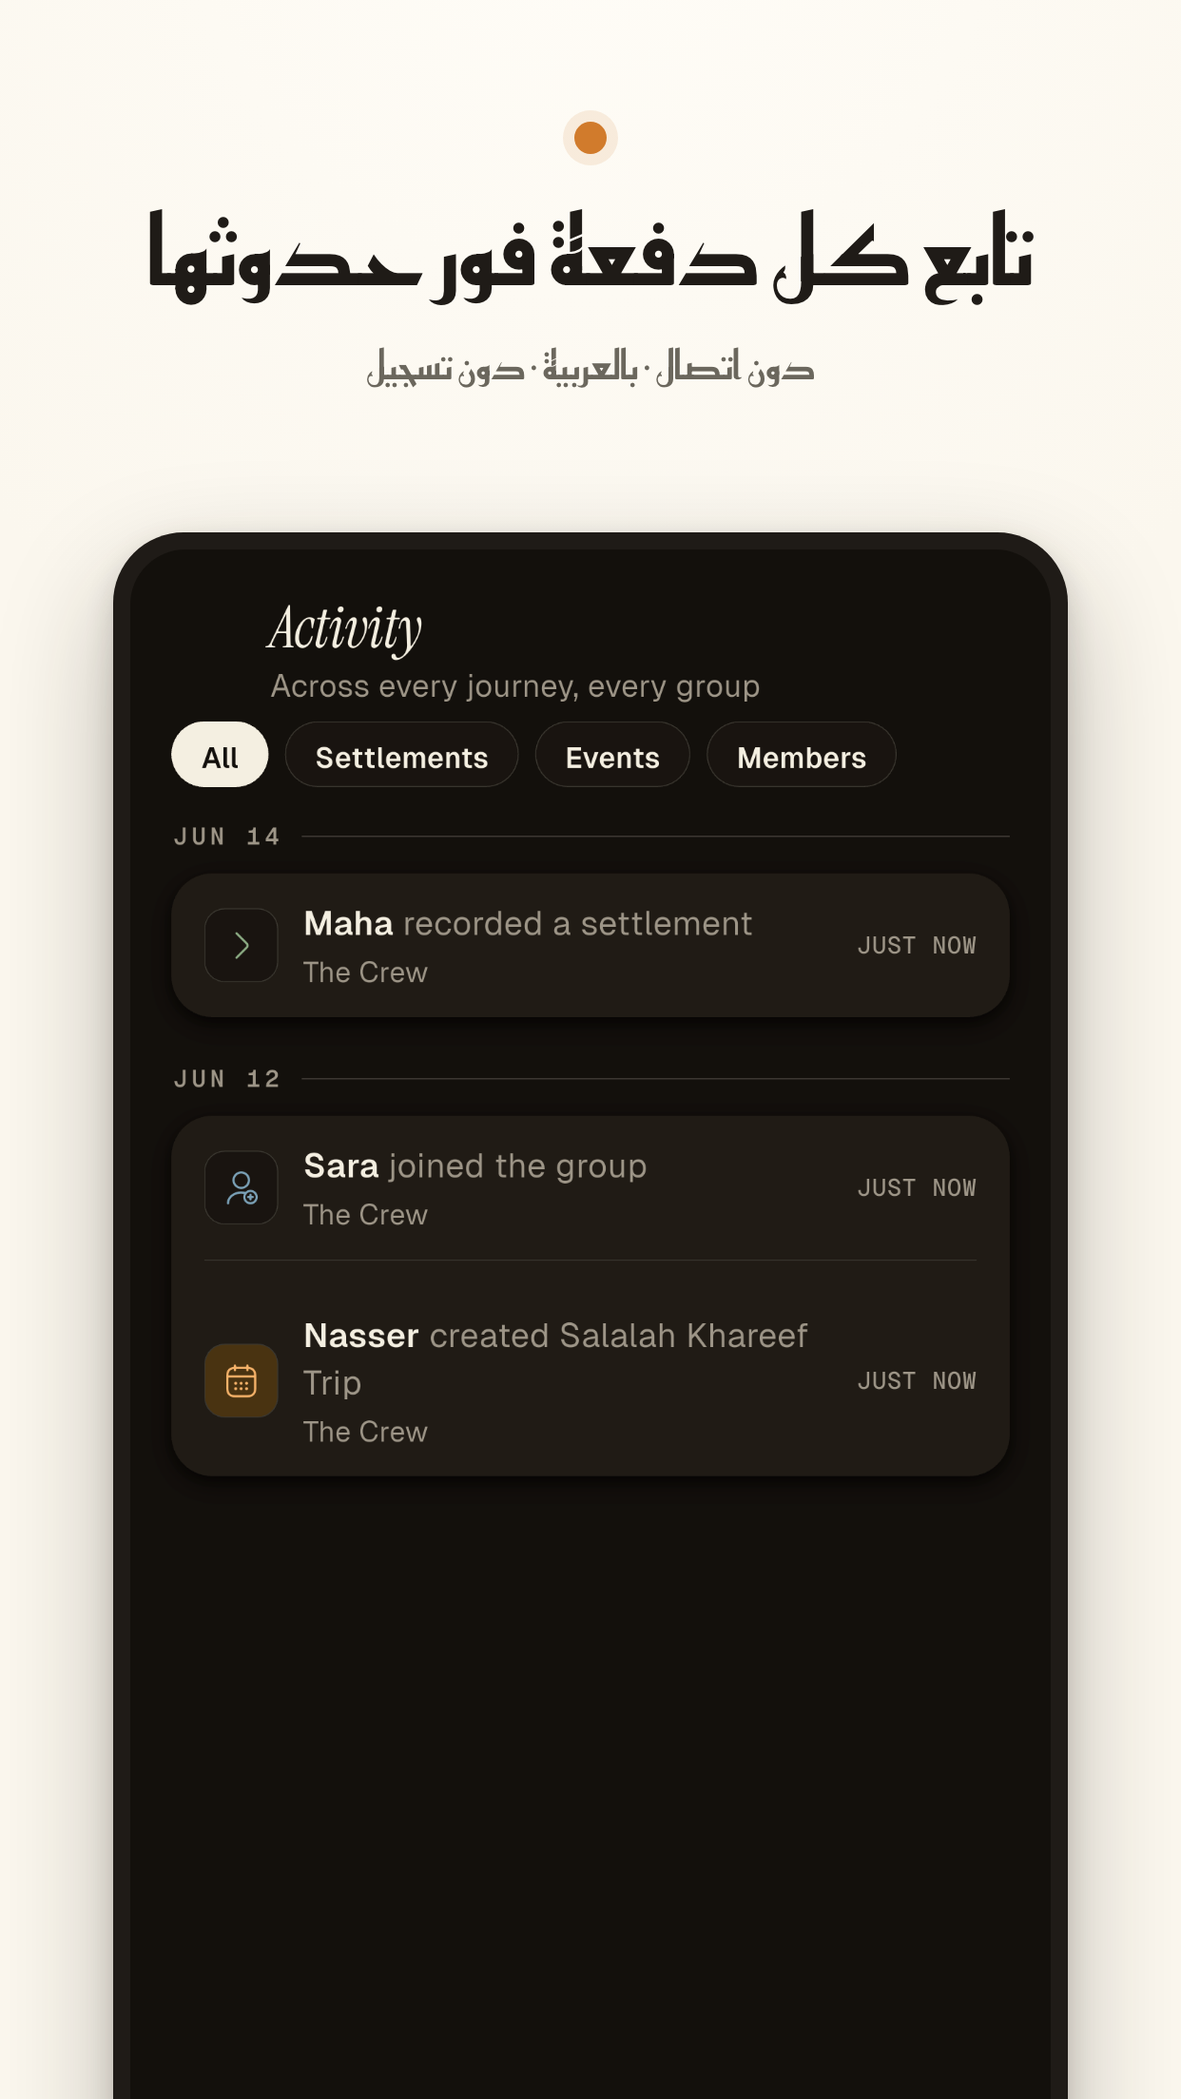
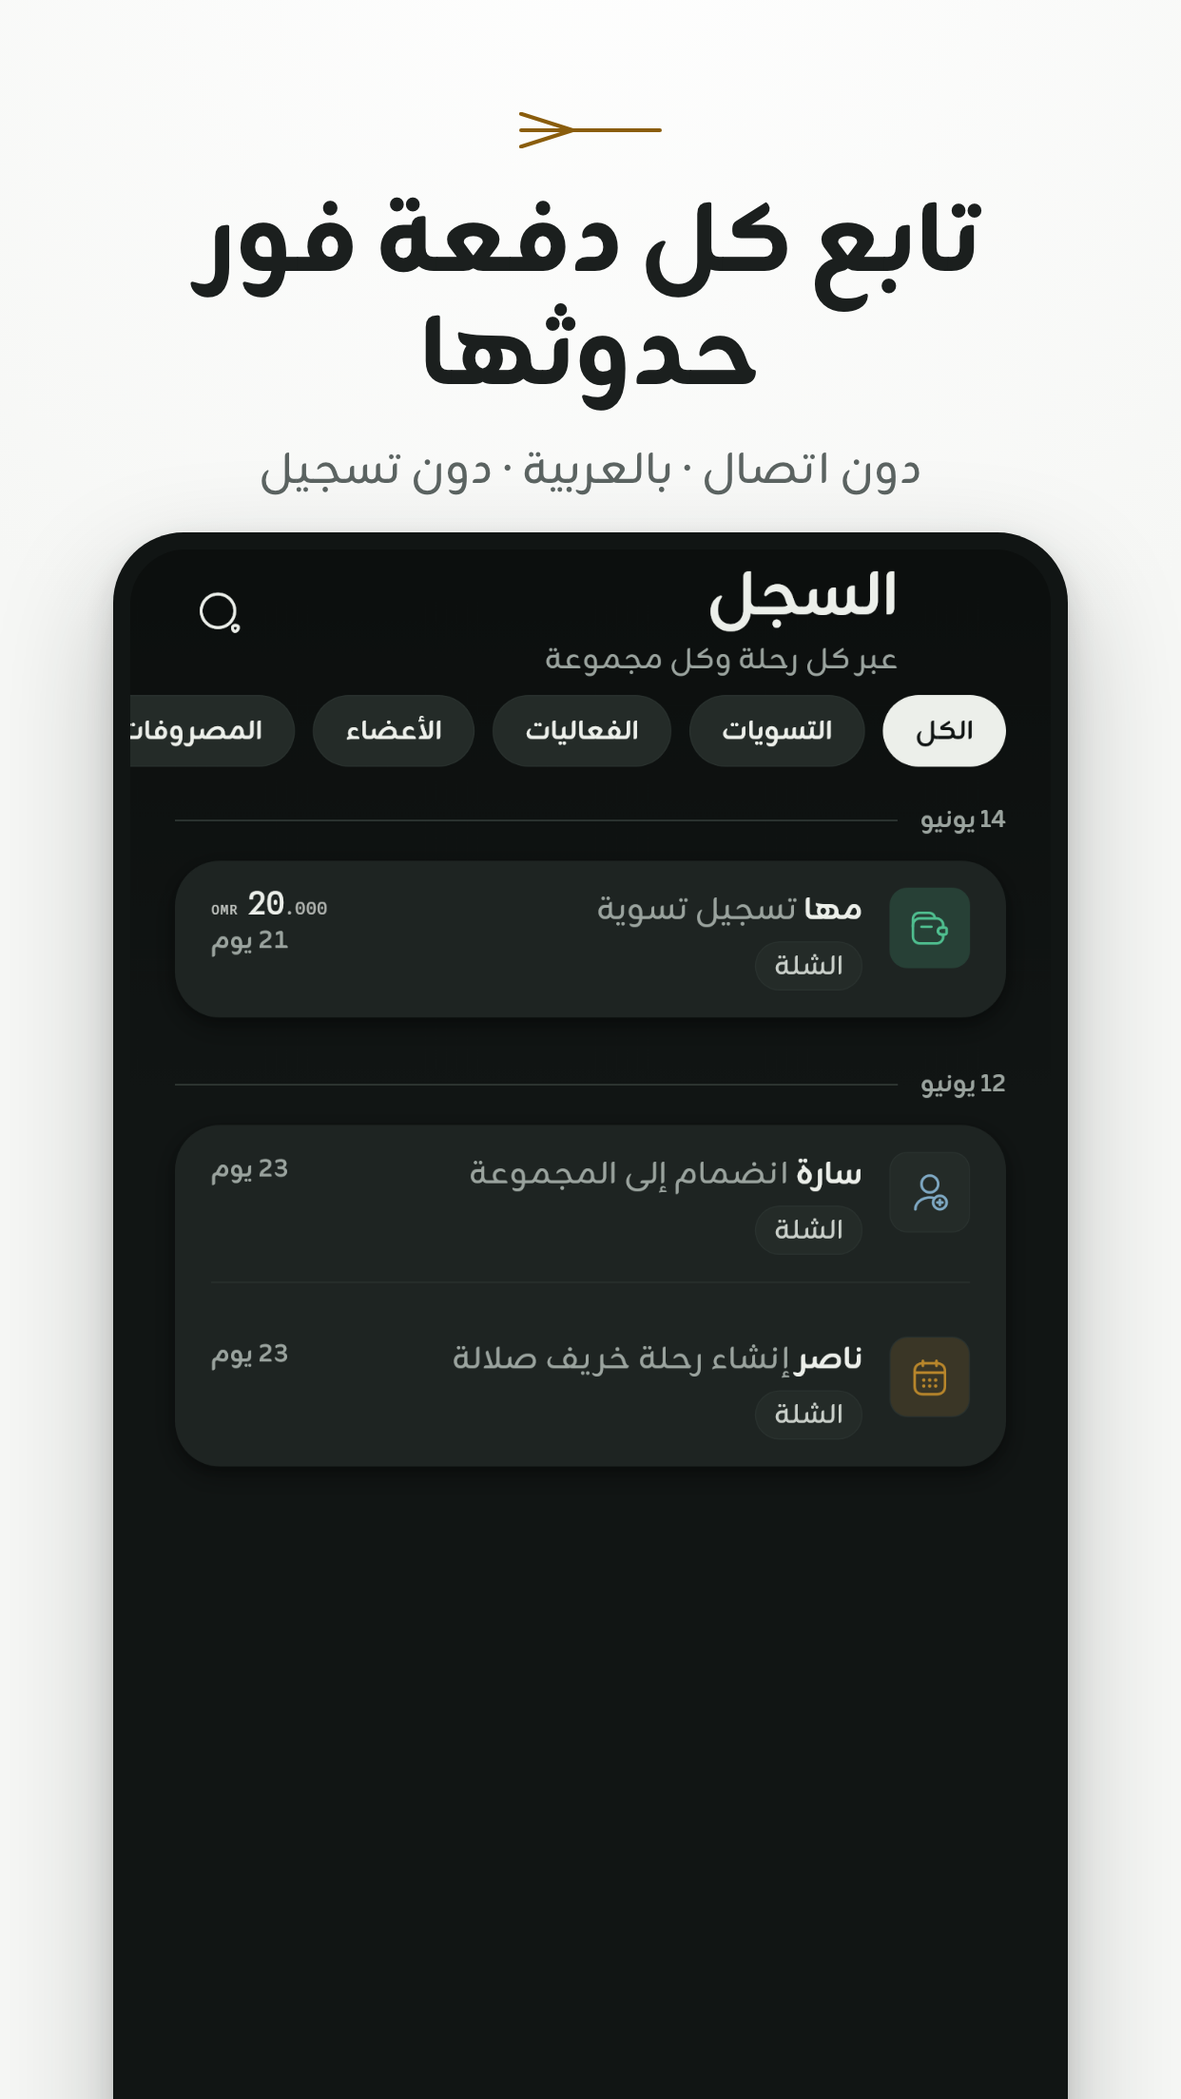
chore(store): re-set Play listing assets in Falaj — captions, frames, feature graphic, AR-native shots (#970)
* chore(store): re-set Play listing assets in Falaj — captions, frames, feature graphic, AR-native shots

The listing still sold the retired travel-journal identity (cream canvas,
saffron accents, italic Instrument Serif captions) around pre-Falaj app
captures; gen.py also silently fell back to system fonts because the
Falaj font swap deleted the Instrument Serif/Geist assets it referenced.

- gen.py: full Falaj re-set — plaster #F6F7F5 canvas, ink #1B1F1E, brass
  #8A5D0D, Bricolage Grotesque 800 upright EN captions (no italics),
  Zain for subs and ALL Arabic sentences, falaj-fork caption device
  (FalajForkPainter geometry, RTL-mirrored), kohl #111514 device frame.
- Feature graphic: upright Bricolage wordmark + brass fork underscore +
  re-hued route-mark motif (matches the #935 icon decision).
- raw-screens/ restructured to per-locale en/ + ar/ sets, captured fresh
  from the Falaj dark UI (settle-up shows the #958 upright headline).
  The AR set is captured from the app running in Arabic — the June
  "Arabic captions over English-UI phones" fallback is retired.
- Old pre-Falaj raws removed; README updated with the capture rig flow.
- ASO copy untouched (keyword set from #578).

Publish via `bundle exec fastlane android listing` (with the #961 icon).

* docs(store): correct anon-uid lookup — auth emulator accounts endpoint is POST accounts:query

diff --git a/docs/design/store-assets/gen.py b/docs/design/store-assets/gen.py
@@ -3,19 +3,19 @@
 
 On-brand marketing canvases rendered from the raw in-app screenshots in
 raw-screens/ via headless Chrome. Outputs straight into the fastlane metadata
-dir. Brand: cream #FBF7EE + ink #1F1B17 + terracotta #D17B2C; Instrument Serif
-Italic (EN display); Geist UI; platform Arabic sans for AR captions. The app's
-bundled Reem Kufi asset is a wordmark-only subset (#636), so this generator must
-not depend on it for full Arabic sentences.
+dir. Brand: Falaj (docs/DESIGN.md) — plaster #F6F7F5 + ink #1B1F1E + brass
+#8A5D0D; Bricolage Grotesque 800 upright (EN display — Falaj bans italics);
+Zain for subs and ALL Arabic text (bundled, Arabic-native — do NOT use the
+Reem Kufi asset for sentences, it is a wordmark-only subset #636).
 
 Usage:  python3 docs/design/store-assets/gen.py
 Then review the outputs and `fastlane android listing` to publish.
 
-raw-screens/ holds the *source* in-app captures; the PNGs under each locale's
-phoneScreenshots/ are the *composited output*. To re-caption: edit SCREENS and
-re-run. To swap/add a shot, drop a current PNG in raw-screens/ and point its
-SCREENS row at it. Captures must be CURRENT-DESIGN (sage palette, no
-gear/logistics) — old-theme shots have been removed.
+raw-screens/{en,ar}/ hold the *source* in-app captures per locale (dark-theme,
+current design); the PNGs under each locale's phoneScreenshots/ are the
+*composited output*. To re-caption: edit SCREENS and re-run. To swap/add a
+shot, drop a current PNG in raw-screens/<locale>/ and point its SCREENS row
+at it.
 """
 import os, subprocess, shutil
 
@@ -28,94 +28,126 @@ HTMLDIR = "/tmp/rihla-aso-html"
 CHROME = "/Applications/Google Chrome.app/Contents/MacOS/Google Chrome"
 os.makedirs(HTMLDIR, exist_ok=True)
 
-CREAM, INK, TERRA, MUTED = "#FBF7EE", "#1F1B17", "#D17B2C", "#6B675D"
+# Falaj tokens — mirror lib/core/theme/tokens/color_tokens.dart (light + dark).
+PLASTER, INK, BRASS, MUTED = "#F6F7F5", "#1B1F1E", "#8A5D0D", "#5C6462"
+KOHL = "#111514"  # dark scaffold — device frame around dark-theme captures
 
 FONT_FACE = f"""
-@font-face {{ font-family:'Serif'; src:url('file://{FONTS}/InstrumentSerif-Italic.ttf'); }}
-@font-face {{ font-family:'Geist'; src:url('file://{FONTS}/Geist-Variable.ttf'); }}
+@font-face {{ font-family:'Bricolage'; src:url('file://{FONTS}/BricolageGrotesque-800.ttf'); font-weight:800; }}
+@font-face {{ font-family:'Zain'; src:url('file://{FONTS}/Zain-400.ttf'); font-weight:400; }}
+@font-face {{ font-family:'Zain'; src:url('file://{FONTS}/Zain-700.ttf'); font-weight:700; }}
+@font-face {{ font-family:'Zain'; src:url('file://{FONTS}/Zain-800.ttf'); font-weight:800; }}
 """
 
-# Per row: raw source in raw-screens/, then (headline, sub) per locale. Same shot, both locales.
+
+def fork_svg(width, height, color, rtl=False):
+    """The falaj fork brand device (FalajForkPainter geometry): a main channel
+    running 2.5u of 4u, then 3 round-cap rivulets fanning to the trailing
+    edge, spread ±0.46h, stroke 0.11h. Mirrored for RTL."""
+    w, h = 400.0, 100.0
+    cy, sp, sw = h / 2, h * 0.46, h * 0.11
+    node = w / 4.0 * 2.5
+    flip = f' transform="translate({w},0) scale(-1,1)"' if rtl else ""
+    return (
+        f'<svg width="{width}" height="{height}" viewBox="0 0 {w:.0f} {h:.0f}" '
+        f'fill="none" xmlns="http://www.w3.org/2000/svg"><g{flip} '
+        f'stroke="{color}" stroke-width="{sw}" stroke-linecap="round">'
+        f'<line x1="{sw / 2}" y1="{cy}" x2="{node}" y2="{cy}"/>'
+        f'<line x1="{node}" y1="{cy}" x2="{w - sw / 2}" y2="{cy - sp}"/>'
+        f'<line x1="{node}" y1="{cy}" x2="{w - sw / 2}" y2="{cy}"/>'
+        f'<line x1="{node}" y1="{cy}" x2="{w - sw / 2}" y2="{cy + sp}"/>'
+        f"</g></svg>"
+    )
+
+
+# Per row: raw source filename (same name under raw-screens/en/ and /ar/),
+# then (headline, sub) per locale.
 SCREENS = [
-    ("3_en-US.png",
+    ("settle_up.png",
         ("Settle up in the fewest payments", "Rihla finds the simplest transfers"),
         ("سَوِّ الديون بأقل عدد من الدفعات", "نحسب لك أبسط التحويلات")),
-    ("4_en-US.png",
+    ("ledger.png",
         ("Every expense, and who owes who", "one balance across every trip"),
         ("كل مصروف، ومن يدين لمن", "رصيد واحد عبر كل رحلة")),
-    ("5_en-US.png",
+    ("add_expense.png",
         ("Split evenly, by share, exact or %", "everyone, a few, or just you"),
         ("قسّم بالتساوي أو حصص أو مبلغ أو نسبة", "على الجميع أو البعض أو عليك وحدك")),
-    ("6_en-US.png",
+    ("activity.png",
         ("Follow every payment as it happens", "offline &middot; bilingual &middot; no sign-up"),
         ("تابع كل دفعة فور حدوثها", "دون اتصال · بالعربية · دون تسجيل")),
 ]
 
 LOCALES = {
-    "en-US": dict(suffix="en-US", dir="ltr",
-        hl_font="'Serif',serif", hl_style="font-style:italic", hl_size="118px", hl_lh="1.02",
-        sub_font="'Geist',sans-serif", sub_size="46px"),
-    "ar": dict(suffix="ar", dir="rtl",
-        hl_font="'Geeza Pro','Noto Sans Arabic','Arial',sans-serif",
-        hl_style="font-weight:600", hl_size="100px", hl_lh="1.18",
-        sub_font="'Geeza Pro','Noto Sans Arabic','Arial',sans-serif",
-        sub_size="42px"),
+    "en-US": dict(suffix="en-US", dir="ltr", raw="en",
+        hl_font="'Bricolage',sans-serif", hl_weight="800", hl_size="104px",
+        hl_lh="1.04", hl_ls="-2px",
+        sub_font="'Zain',sans-serif", sub_size="48px"),
+    "ar": dict(suffix="ar", dir="rtl", raw="ar",
+        hl_font="'Zain',sans-serif", hl_weight="800", hl_size="104px",
+        hl_lh="1.14", hl_ls="0",
+        sub_font="'Zain',sans-serif", sub_size="46px"),
 }
+
 
 def shot_css(L):
     return f"""<style>{FONT_FACE}
 *{{margin:0;padding:0;box-sizing:border-box}}
-html,body{{width:1242px;height:2208px;overflow:hidden;background:{CREAM};-webkit-font-smoothing:antialiased}}
+html,body{{width:1242px;height:2208px;overflow:hidden;background:{PLASTER};-webkit-font-smoothing:antialiased}}
 .wrap{{width:1242px;height:2208px;position:relative;
-  background:radial-gradient(120% 80% at 50% -10%, #FFFDF8 0%, {CREAM} 60%)}}
-.cap{{padding:128px 90px 0;text-align:center}}
-.dot{{width:34px;height:34px;border-radius:50%;background:{TERRA};margin:0 auto 44px;
-  box-shadow:0 0 0 12px rgba(209,123,44,.12)}}
-.hl{{font-family:{L['hl_font']};{L['hl_style']};color:{INK};font-size:{L['hl_size']};
-  line-height:{L['hl_lh']};letter-spacing:-.5px}}
-.sub{{font-family:{L['sub_font']};color:{MUTED};font-size:{L['sub_size']};line-height:1.3;
-  margin-top:34px;font-weight:500}}
+  background:radial-gradient(120% 80% at 50% -10%, #FFFFFF 0%, {PLASTER} 62%)}}
+.cap{{padding:118px 90px 0;text-align:center}}
+.fork{{margin:0 auto 40px;width:150px}}
+.hl{{font-family:{L['hl_font']};font-weight:{L['hl_weight']};color:{INK};font-size:{L['hl_size']};
+  line-height:{L['hl_lh']};letter-spacing:{L['hl_ls']}}}
+.sub{{font-family:{L['sub_font']};font-weight:400;color:{MUTED};font-size:{L['sub_size']};line-height:1.3;
+  margin-top:30px}}
 .stage{{position:absolute;left:50%;transform:translateX(-50%);top:560px;width:1004px;
-  background:{INK};padding:18px;border-radius:74px;
-  box-shadow:0 50px 120px rgba(31,27,23,.28), 0 12px 30px rgba(31,27,23,.16)}}
+  background:{KOHL};padding:18px;border-radius:74px;
+  box-shadow:0 50px 120px rgba(27,31,30,.26), 0 12px 30px rgba(27,31,30,.14)}}
 .stage img{{display:block;width:100%;border-radius:58px}}
 </style>"""
 
+
 def shot_html(L, src, hl, sub):
+    fork = fork_svg(150, 38, BRASS, rtl=(L["dir"] == "rtl"))
     return f"""<!doctype html><html dir="{L['dir']}"><head><meta charset="utf-8">{shot_css(L)}</head>
-<body><div class="wrap"><div class="cap" dir="{L['dir']}"><div class="dot"></div>
+<body><div class="wrap"><div class="cap" dir="{L['dir']}"><div class="fork">{fork}</div>
 <div class="hl">{hl}</div><div class="sub">{sub}</div></div>
-<div class="stage"><img src="file://{RAW}/{src}"></div></div></body></html>"""
+<div class="stage"><img src="file://{RAW}/{L['raw']}/{src}"></div></div></body></html>"""
+
 
 FEATURE = f"""<!doctype html><html><head><meta charset="utf-8">
 <style>{FONT_FACE}
 *{{margin:0;padding:0;box-sizing:border-box}}
 html,body{{width:1024px;height:500px;overflow:hidden;
-  background:radial-gradient(130% 120% at 8% 30%, #FFFDF8 0%, {CREAM} 58%, #F4EEDF 100%);
-  font-family:'Geist',sans-serif;-webkit-font-smoothing:antialiased}}
+  background:radial-gradient(130% 120% at 8% 30%, #FFFFFF 0%, {PLASTER} 58%, #ECEEE8 100%);
+  font-family:'Zain',sans-serif;-webkit-font-smoothing:antialiased}}
 .fw{{width:1024px;height:500px;position:relative}}
 .text{{position:absolute;left:90px;top:50%;transform:translateY(-50%)}}
-.brand{{font-family:'Serif',serif;font-style:italic;color:{INK};font-size:168px;line-height:.9;letter-spacing:-2px}}
-.rule{{width:120px;height:9px;background:{TERRA};border-radius:6px;margin:30px 0 26px 6px}}
-.tag{{font-family:'Geist';color:{INK};font-size:48px;font-weight:600;letter-spacing:.2px}}
-.tag2{{font-family:'Geist';color:{MUTED};font-size:33px;font-weight:500;margin-top:12px}}
+.brand{{font-family:'Bricolage',sans-serif;font-weight:800;color:{INK};font-size:148px;
+  line-height:.95;letter-spacing:-4px}}
+.fork{{margin:18px 0 20px 8px}}
+.tag{{color:{INK};font-size:50px;font-weight:700;letter-spacing:.2px}}
+.tag2{{color:{MUTED};font-size:34px;font-weight:400;margin-top:6px}}
 .motif{{position:absolute;right:-40px;top:0;width:520px;height:500px}}
 .disc{{position:absolute;right:150px;top:120px;width:150px;height:150px;border-radius:50%;
-  background:{TERRA};box-shadow:0 18px 50px rgba(209,123,44,.35)}}
+  background:{BRASS};box-shadow:0 18px 50px rgba(138,93,13,.30)}}
 .disc:after{{content:'';position:absolute;left:50%;top:50%;transform:translate(-50%,-50%);
-  width:46px;height:46px;border-radius:50%;background:{CREAM}}}
+  width:46px;height:46px;border-radius:50%;background:#FFFFFF}}
 .disc:before{{content:'';position:absolute;left:50%;top:50%;transform:translate(-50%,-50%);
   width:20px;height:20px;border-radius:50%;background:{INK};z-index:2}}
 .ring{{position:absolute;right:330px;top:300px;width:78px;height:78px;border-radius:50%;
-  background:{INK};box-shadow:0 0 0 12px rgba(31,27,23,.14)}}
+  background:{INK};box-shadow:0 0 0 12px rgba(27,31,30,.12)}}
 .path{{position:absolute;right:205px;top:200px;width:175px;height:140px;
   border-left:9px dotted {INK};transform:rotate(36deg);transform-origin:bottom left;opacity:.85}}
 </style></head><body><div class="fw">
-<div class="text"><div class="brand">Rihla</div><div class="rule"></div>
+<div class="text"><div class="brand">Rihla</div>
+<div class="fork">{fork_svg(190, 48, BRASS)}</div>
 <div class="tag">Split group expenses</div>
 <div class="tag2">Who owes who &middot; settle up &middot; offline</div></div>
 <div class="motif"><div class="disc"></div><div class="ring"></div><div class="path"></div></div>
 </div></body></html>"""
+
 
 def render(htmlstr, outp, w, h):
     p = f"{HTMLDIR}/{os.path.basename(outp)}.html"
@@ -127,16 +159,18 @@ def render(htmlstr, outp, w, h):
         check=True, stdout=subprocess.DEVNULL, stderr=subprocess.DEVNULL)
     print("rendered", outp.replace(REPO + "/", ""))
 
-# feature graphic (EN images dir; Play falls back to it for AR)
-render(FEATURE, f"{EN_IMG}/featureGraphic.png", 1024, 500)
 
-# screenshots, both locales
-for loc, L in LOCALES.items():
-    out_dir = f"{META}/{loc}/images/phoneScreenshots"
-    if os.path.isdir(out_dir):
-        shutil.rmtree(out_dir)
-    os.makedirs(out_dir)
-    for i, (src, en, ar) in enumerate(SCREENS, 1):
-        hl, sub = (en if loc == "en-US" else ar)
-        render(shot_html(L, src, hl, sub), f"{out_dir}/{i}_{L['suffix']}.png", 1242, 2208)
-print("DONE")
+if __name__ == "__main__":
+    # feature graphic (EN images dir; Play falls back to it for AR)
+    render(FEATURE, f"{EN_IMG}/featureGraphic.png", 1024, 500)
+
+    # screenshots, both locales — each locale composites its own raw captures
+    for loc, L in LOCALES.items():
+        out_dir = f"{META}/{loc}/images/phoneScreenshots"
+        if os.path.isdir(out_dir):
+            shutil.rmtree(out_dir)
+        os.makedirs(out_dir)
+        for i, (src, en, ar) in enumerate(SCREENS, 1):
+            hl, sub = (en if loc == "en-US" else ar)
+            render(shot_html(L, src, hl, sub), f"{out_dir}/{i}_{L['suffix']}.png", 1242, 2208)
+    print("DONE")

diff --git a/docs/design/store-assets/README.md b/docs/design/store-assets/README.md
@@ -2,15 +2,19 @@
 
 On-brand **feature graphic** + **captioned phone screenshots** for the Play
 listing, rendered from HTML via headless Chrome so they stay in sync with the
-design system (`lib/core/theme/tokens/`).
+design system (`lib/core/theme/tokens/`). Brand: **Falaj** (`docs/DESIGN.md`)
+— plaster `#F6F7F5` + ink `#1B1F1E` + brass `#8A5D0D`; Bricolage Grotesque 800
+upright for EN display (Falaj bans italics), Zain for subs and all Arabic
+sentences, the falaj fork as the caption device.
 
 ## Files
 
 - `gen.py` — the generator. Renders the feature graphic + 4 captioned
   screenshots **per locale (EN + AR)** straight into `fastlane/metadata/android/`.
-- `raw-screens/` — the **raw in-app captures** that feed the composites.
-  These are the *source*; the PNGs in `fastlane/.../phoneScreenshots/` are the
-  *output* (caption banner + device frame around these).
+- `raw-screens/en/`, `raw-screens/ar/` — the **raw in-app captures** per
+  locale (dark theme, current design). These are the *source*; the PNGs in
+  `fastlane/.../phoneScreenshots/` are the *output* (caption banner + device
+  frame around these). Same filenames in both locale dirs.
 
 ## Regenerate
 
@@ -19,30 +23,44 @@ python3 docs/design/store-assets/gen.py
 ```
 
 Requires Google Chrome at the default macOS path and the bundled fonts in
-`assets/fonts/`. Outputs:
+`assets/fonts/` (Bricolage Grotesque 800, Zain 400/700/800). Outputs:
 
 - `fastlane/metadata/android/en-US/images/featureGraphic.png` — 1024×500
 - `fastlane/metadata/android/en-US/images/phoneScreenshots/{1..4}_en-US.png` — 1242×2208
 - `fastlane/metadata/android/ar/images/phoneScreenshots/{1..4}_ar.png` — 1242×2208
-  (RTL captions rendered with platform Arabic fonts; the bundled Reem Kufi asset
-  is a wordmark-only subset)
 
-## Open items (need a fresh capture from the current app)
+Arabic captions AND the Arabic in-app UI are both real since the 2026-07-06
+Falaj refresh (the AR raw set is captured from the app running in Arabic —
+the old "Arabic captions over English-UI phones" fallback is retired). Do
+NOT set Arabic sentences in Reem Kufi — the bundled asset is a wordmark-only
+subset (#636); Zain is the Arabic text face.
 
-1. **Net-balance "who owes who" hero is missing.** The original slot-1 shot was
-   an *old-theme* capture (bright emerald + "11% ring" Trip Settlement layout) —
-   removed. To re-add it, capture the current group/settlement balance screen
-   (sage palette) and drop it in `raw-screens/`, then add a `SCREENS` row.
-2. **AR screenshots show English app UI.** The `raw-screens/` captures are
-   English-locale. For a fully-localized AR listing, re-capture the app running
-   in Arabic (RTL) and add an `ar/` raw set. Until then AR gets Arabic *captions*
-   over English-UI phones — better than the English-caption fallback, not ideal.
+## Capture a new raw set
+
+Boot the Firebase emulators + an Android emulator, install a debug build in
+emulator mode, seed the demo group, then screencap:
+
+```bash
+firebase emulators:start --only auth,firestore --project rihla-safar
+flutter run --dart-define-from-file=config.qa.json -d <device>
+# grab the anon uid (the endpoint is POST-only; a GET 405s):
+# curl -s -X POST "http://127.0.0.1:9099/identitytoolkit.googleapis.com/v1/projects/rihla-safar/accounts:query" \
+#   -H 'Authorization: Bearer owner' -H 'Content-Type: application/json' -d '{}'
+cd functions && FIRESTORE_EMULATOR_HOST=127.0.0.1:8080 \
+  FIREBASE_AUTH_EMULATOR_HOST=127.0.0.1:9099 GCLOUD_PROJECT=rihla-safar \
+  node ../tool/seed_demo.js <uid> en          # then `ar` for the Arabic pass
+adb exec-out screencap -p > raw.png           # crop the status bar before use
+```
+
+Set the device to dark theme; switch the device locale to Arabic for the AR
+set. Crop the status bar off captures (the composite's device frame supplies
+the bezel).
 
 ## Edit captions / swap a shot
 
 - **Caption copy:** edit the `SCREENS` list in `gen.py` and re-run.
-- **New raw shot:** drop a PNG in `raw-screens/`, point its `SCREENS` row at
-  it, re-run.
+- **New raw shot:** drop a PNG (same name) in `raw-screens/en/` and
+  `raw-screens/ar/`, point a `SCREENS` row at it, re-run.
 
 ## Publish
 
@@ -53,10 +71,12 @@ bundle exec fastlane android listing   # needs Homebrew Ruby 3.x
 ## History / guardrails
 
 - The feature graphic was previously the **wrong brand** ("Safar — Split Travel
-  Expenses"); replaced with the Rihla wordmark + icon motif (2026-06-18).
+  Expenses"); replaced 2026-06-18, re-set in Falaj 2026-07-06.
 - The old screenshot #1 advertised **Vault / Gear / Logistics** — features
   stripped in Phase 39. Don't reintroduce stale module screenshots; the
-  `raw-screens/` set is ledger-only and current.
+  `raw-screens/` sets are ledger-only and current.
 - Multi-currency copy is **truthful as of #261/#382** (per-group currency
   shipped). It was once removed as a false claim (#141) when it was vaporware —
   it is real now, so the listing mentions it again.
+- Captions/copy were keyword-optimized in #578 — the Falaj refresh changed
+  visuals only, not the ASO copy.
